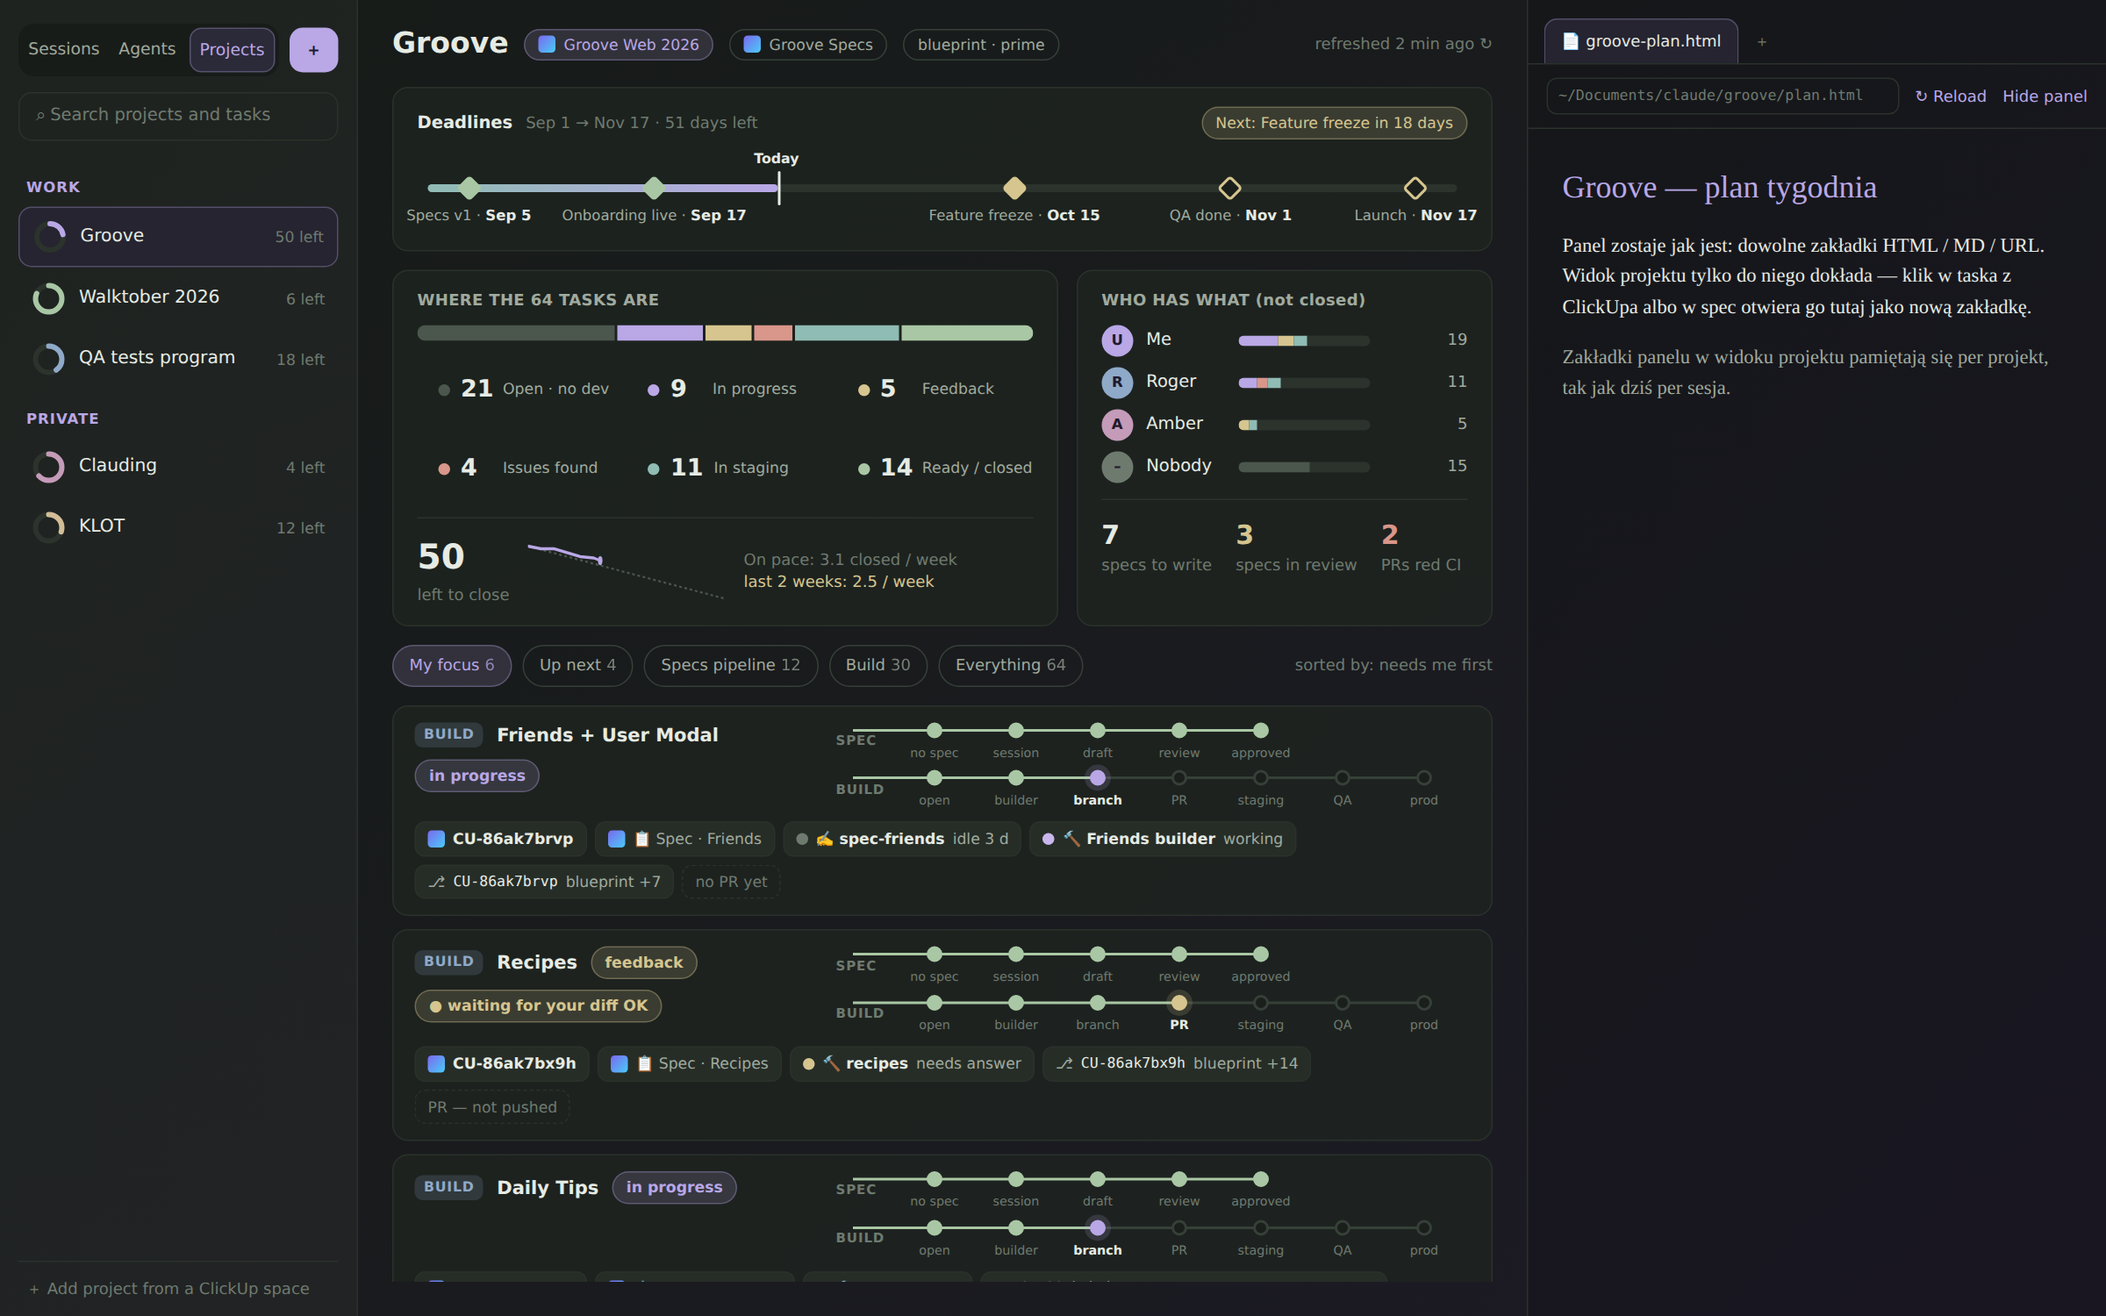
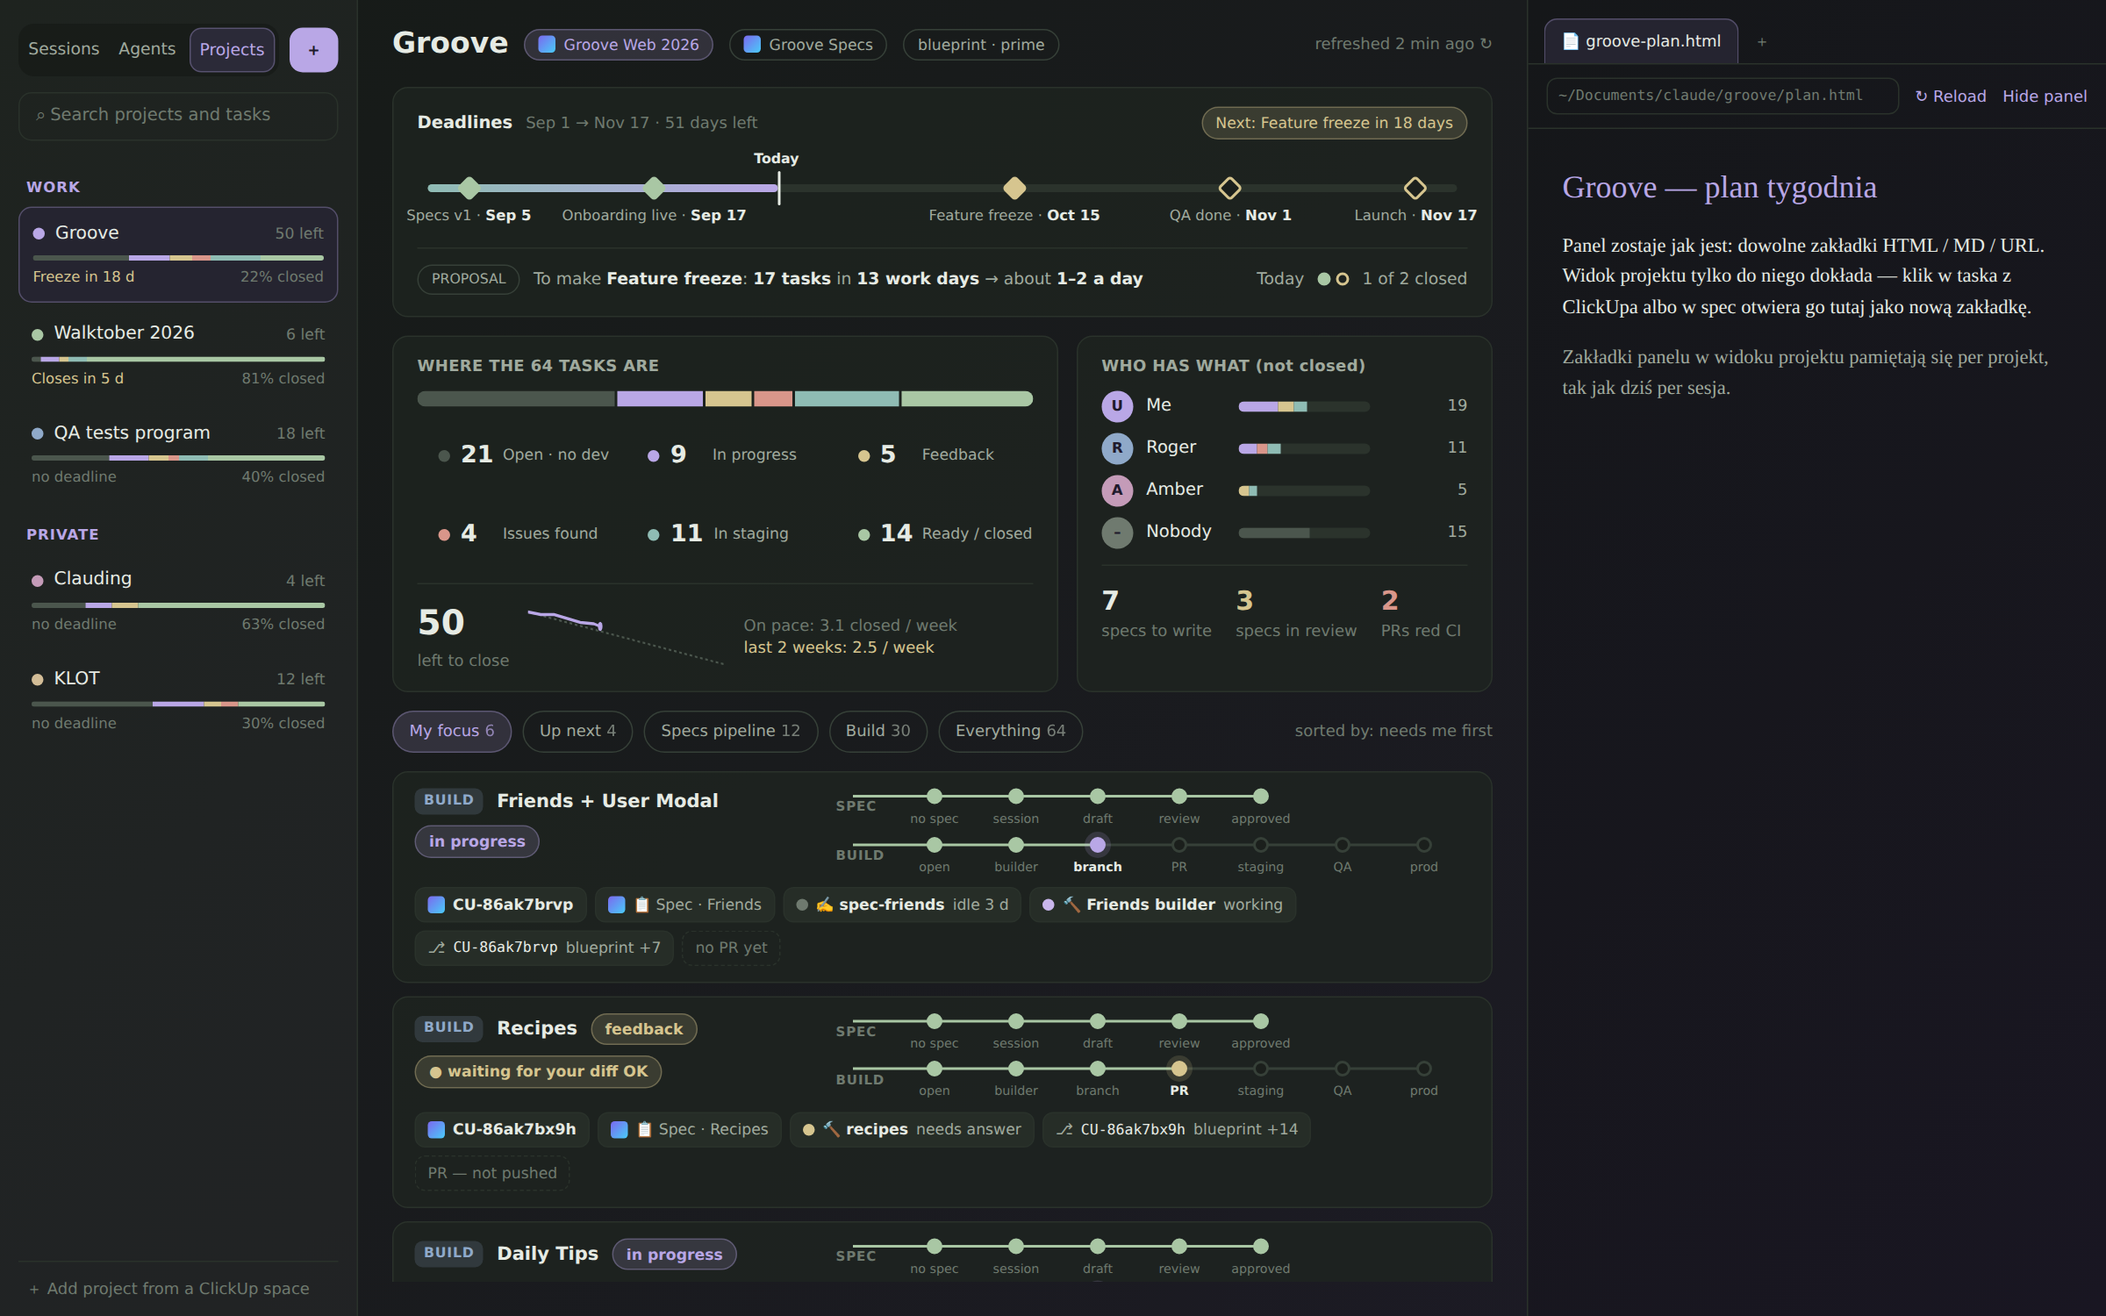
Projects view: all look choices recorded, combined mockup rebuilt with them
Project list B, deadlines A with a proposed daily-pace line, stats A,
filters A, task card A, specs pipeline C, ClickUp read in the panel with a
link out to the browser, details expand in place.

Claude-Session: https://claude.ai/code/session_016X8WzkLtbD8eWEod65GD45

diff --git a/docs/proposals/projects-view/mockups.html b/docs/proposals/projects-view/mockups.html
@@ -34,6 +34,7 @@
           <div class="milestone" style="left:78%"><div class="diamond"></div><div class="label">QA done · <b>Nov 1</b></div></div>
           <div class="milestone" style="left:96%"><div class="diamond"></div><div class="label">Launch · <b>Nov 17</b></div></div>
         </div>
+        <div class="pace"><span class="pill ghost" style="font-size:10.5px">PROPOSAL</span><span>To make <b>Feature freeze</b>: <b>17 tasks</b> in <b>13 work days</b> → about <b>1–2 a day</b></span><span class="spacer"></span><span>Today</span><span class="today-dots"><span class="done"></span><span></span></span><span>1 of 2 closed</span></div>
       </div>
 
       <div class="stats">
@@ -96,7 +97,7 @@
   </div>
   <div class="col-right" data-panel="empty"></div>
 </div>
-<div class="caption"><b>1 · Przegląd projektu.</b> Trzecia zakładka „Projects” po lewej; środek zamiast terminala pokazuje projekt. Góra: deadline'y na osi z „Today” i pasek, który się przesuwa; pod nim statusy z ClickUpa, kto ma co, i burn-down „ile zostało do zamknięcia”. Niżej — tylko Twoje bieżące rzeczy („My focus”), reszta za filtrami.</div>
+<div class="caption"><b>1 · Przegląd — z Twoimi wyborami.</b> Lista projektów B (pasek statusów + najbliższy deadline), oś deadline'ów A, statystyki A, filtry A, karty A. Nowe, do decyzji: linijka pod osią — ile tasków dziennie trzeba zamykać do najbliższego deadline'u i ile dziś już poszło.</div>
 
 <!-- ============ SCREEN 2: item open + ClickUp task in panel ============ -->
 <div class="screen" id="screen-item">
@@ -124,7 +125,7 @@
   </div>
   <div class="col-right" data-panel="clickup"></div>
 </div>
-<div class="caption"><b>2 · Rozwinięty task.</b> Klik w wiersz rozwija szczegóły: obie sesje (speki i builder) z ich stanem, gałąź w obu repo, PR z CI, gdzie jest względem <code>docker-staging</code>. Klik w ClickUp / spec otwiera taska po prawej jako zakładkę panelu; klik w sesję przełącza na nią terminal.</div>
+<div class="caption"><b>2 · Rozwinięty task.</b> Klik w wiersz rozwija szczegóły: obie sesje (speki i builder) z ich stanem, gałąź w obu repo, PR z CI, gdzie jest względem <code>docker-staging</code>. Klik w ClickUp / spec otwiera taska po prawej — Clauding sam czyta opis, pola i komentarze; „Open in ClickUp ↗” otwiera prawdziwego ClickUpa w przeglądarce. Klik w sesję przełącza na nią terminal.</div>
 
 <!-- ============ SCREEN 3: specs pipeline ============ -->
 <div class="screen" id="screen-specs">
@@ -136,23 +137,25 @@
         <span class="subtle">›</span>
         <span style="font-size:15px;color:var(--text-dim)">Specs pipeline</span>
         <span class="spacer"></span>
-        <span class="subtle">Groove Specs list · 12 not yet in Groove Web</span>
+        <span class="subtle">Groove Specs list · 28 not approved yet</span>
       </div>
     </div>
     <div class="mid-body">
       <div class="filters">
         <span class="chip">My focus<span class="count">6</span></span>
         <span class="chip">Up next<span class="count">4</span></span>
-        <span class="chip is-active">Specs pipeline<span class="count">12</span></span>
+        <span class="chip is-active">Specs pipeline<span class="count">28</span></span>
         <span class="chip">Build<span class="count">30</span></span>
         <span class="chip">Everything<span class="count">64</span></span>
       </div>
-      <div class="kanban" data-kanban></div>
+      <div class="funnel" data-funnel></div>
+      <div class="stage-head" data-stage-head></div>
+      <div style="display:flex;flex-direction:column;gap:6px" data-stage-list></div>
     </div>
   </div>
   <div class="col-right" data-panel="spec"></div>
 </div>
-<div class="caption"><b>3 · Pipeline speców.</b> Druga lista z ClickUpa jako tablica: bez speca → sesja Spec Writera → szkic lokalny → review / approval → zatwierdzony. Zatwierdzony spec (złota ramka) to moment przejścia — task wchodzi do listy buildowej jako Open, bez developera, i tam go widać w zakładce Build.</div>
+<div class="caption"><b>3 · Pipeline speców — wariant C.</b> Liczniki etapów zawsze na górze, pod nimi lista jednego etapu. Działa przy 10–15 specach na etap, gdzie tablica A by się rozjechała. Klik w licznik przełącza etap.</div>
 
 <!-- ============ SCREEN 4: project setup ============ -->
 <div class="screen" id="screen-setup">
@@ -190,19 +193,28 @@
 <div class="caption"><b>4 · Ustawienia projektu.</b> Raz na projekt: dwie listy ClickUpa (build + speki), repo, kim jesteś w ClickUpie, deadline'y (z daty taska w ClickUpie albo wpisane ręcznie) i co wpada do „My focus”.</div>
 
 <script>
+const projectList = [
+  ["Groove", "#b9a7e6", 50, [21, 9, 5, 4, 11, 14], "Freeze in 18 d", 22, "Work"],
+  ["Walktober 2026", "#a9c7a4", 6, [1, 2, 1, 0, 2, 26], "Closes in 5 d", 81, "Work"],
+  ["QA tests program", "#8fa9c9", 18, [8, 4, 2, 1, 3, 12], "no deadline", 40, "Work"],
+  ["Clauding", "#c49bb8", 4, [2, 1, 1, 0, 0, 7], "no deadline", 63, "Private"],
+  ["KLOT", "#d3bd97", 12, [7, 3, 1, 1, 0, 5], "no deadline", 30, "Private"],
+];
+const listBucketColors = ["#4b564d", "var(--accent)", "var(--gold)", "var(--coral)", "var(--teal)", "var(--sage)"];
+let projectRows = "";
+let lastGroup = "";
+projectList.forEach(([name, color, left, buckets, next, closed, group], index) => {
+  if (group !== lastGroup) { lastGroup = group; projectRows += `<div class="group-title">${group}</div>`; }
+  const nextColor = next.startsWith("no") ? "var(--text-faint)" : "var(--gold)";
+  projectRows += `<div class="project-line ${index === 0 ? "is-selected" : ""}"><div class="top"><span class="dot" style="background:${color}"></span><span class="name">${name}</span><span class="meta">${left} left</span></div><div class="thin-bar">${buckets.map((count, bucketIndex) => count ? `<div style="flex:${count};background:${listBucketColors[bucketIndex]}"></div>` : "").join("")}</div><div class="under"><span style="color:${nextColor}">${next}</span><span>${closed}% closed</span></div></div>`;
+});
 const leftColumn = `
   <div class="tabs-row">
     <div class="tabs"><span class="tab">Sessions</span><span class="tab">Agents</span><span class="tab is-active">Projects</span></div>
     <span class="button-new">＋</span>
   </div>
   <div class="search">⌕ Search projects and tasks</div>
-  <div class="group-title">Work</div>
-  <div class="project-row is-selected">${ring(0.22, "#b9a7e6")}<span class="name">Groove</span><span class="meta">50 left</span></div>
-  <div class="project-row">${ring(0.81, "#a9c7a4")}<span class="name">Walktober 2026</span><span class="meta">6 left</span></div>
-  <div class="project-row">${ring(0.4, "#8fa9c9")}<span class="name">QA tests program</span><span class="meta">18 left</span></div>
-  <div class="group-title">Private</div>
-  <div class="project-row">${ring(0.63, "#c49bb8")}<span class="name">Clauding</span><span class="meta">4 left</span></div>
-  <div class="project-row">${ring(0.3, "#d3bd97")}<span class="name">KLOT</span><span class="meta">12 left</span></div>
+  ${projectRows}
   <div class="left-footer">＋ Add project from a ClickUp space</div>
 `;
 function ring(fraction, color) {
@@ -314,30 +326,26 @@ document.querySelector("[data-items]").innerHTML = items.slice(0, 4).map((item) 
   `<div class="more-row">＋ 2 more in My focus · <span style="color:var(--accent)">44 open tasks not started — hidden until pinned to Up next</span></div>`;
 document.querySelector("[data-items-detail]").innerHTML = itemHtml(items[0], true) + items.slice(1).map((item) => itemHtml(item, false)).join("");
 
-const lanes = [
-  ["No spec yet", 4, [["Song links", ""], ["Encore modal copy", ""], ["Friends invites", ""], ["Badges", ""]]],
-  ["Spec session", 3, [["Forgot Password + ELEvate", "✍ working"], ["Login page", "✍ idle 2 d"], ["Welcome page", "✍ needs answer"]]],
-  ["Draft (local)", 2, [["Countdown", "4 drift flags"], ["Theme modes", "draft"]]],
-  ["Review / approval", 3, [["Progress Status", "your approval"], ["Dashboard Timeline Editor", "Design"], ["Eligibility", "Product"]]],
-  ["Approved → Build", 4, [["Timeline", "→ Open in Web"], ["Encore", "→ Open in Web"], ["Toast alerts", "→ Open, no dev"], ["Daily Tips", "→ building"]]],
+const stages = [["No spec yet", 11], ["Spec session", 6], ["Draft", 4], ["Review", 7], ["Approved", 14]];
+document.querySelector("[data-funnel]").innerHTML = stages.map(([name, count], index) => `<div class="${index === 3 ? "is-active" : ""}"><b>${count}</b>${name}</div>`).join("");
+document.querySelector("[data-stage-head]").textContent = "Review · 7 waiting";
+const reviewRows = [
+  ["Progress Status — technical", "your approval", "gold", "✍ spec-progress-status", "idle"],
+  ["Dashboard Timeline Editor", "Design", "", "✍ spec-timeline", "idle 4 d"],
+  ["Eligibility", "Product", "", "✍ spec-eligibility", "idle 6 d"],
+  ["Forgot Password + ELEvate", "your approval", "gold", "✍ spec-forgot", "idle 1 d"],
+  ["Login page", "Design", "", "✍ spec-login", "idle 2 d"],
+  ["Welcome page", "your approval", "gold", "✍ spec-welcome", "needs answer"],
+  ["Toast alerts", "Product", "", "✍ spec-toasts", "idle 9 d"],
 ];
-document.querySelector("[data-kanban]").innerHTML = lanes.map(([title, count, tickets], laneIndex) => `
-  <div class="lane"><h4><span>${title}</span><span>${count}</span></h4>
-  ${tickets.map(([name, note]) => {
-    let noteClass = "";
-    if (note.includes("working")) noteClass = "lav";
-    if (note.includes("needs") || note.includes("your")) noteClass = "gold";
-    if (note.includes("flags")) noteClass = "coral";
-    if (note.startsWith("→")) noteClass = "teal";
-    return `<div class="ticket ${laneIndex === 4 && note.includes("no dev") ? "handoff" : ""}"><div class="t">${name}</div><div class="m"><span class="link" style="padding:2px 6px"><span class="cu-icon"></span>task</span>${note ? `<span class="pill ${noteClass}">${note}</span>` : `<span class="link missing" style="padding:2px 6px">＋ Spec Writer</span>`}</div></div>`;
-  }).join("")}</div>`).join("");
+document.querySelector("[data-stage-list]").innerHTML = reviewRows.map(([name, waiting, color, session, state]) => `<div class="list-row"><span class="cu-icon"></span><span class="t">${name}</span><span class="link"><span class="dot" style="background:${state === "needs answer" ? "var(--gold)" : "var(--text-faint)"}"></span><b>${session}</b><span>${state}</span></span><span class="spacer"></span><span class="pill ${color}">${waiting}</span></div>`).join("");
 
 const panels = {
   empty: `<div class="panel-tabs"><span class="panel-tab is-active">📄 groove-plan.html</span><span class="subtle" style="padding:0 8px 8px">＋</span></div>
     <div class="panel-bar"><span class="addr">~/Documents/claude/groove/plan.html</span>↻ Reload<span>Hide panel</span></div>
     <div class="panel-body cu"><h2>Groove — plan tygodnia</h2><p>Panel zostaje jak jest: dowolne zakładki HTML / MD / URL. Widok projektu tylko do niego dokłada — klik w taska z ClickUpa albo w spec otwiera go tutaj jako nową zakładkę.</p><p style="color:var(--text-dim)">Zakładki panelu w widoku projektu pamiętają się per projekt, tak jak dziś per sesja.</p></div>`,
   clickup: `<div class="panel-tabs"><span class="panel-tab"><span class="cu-icon"></span>Spec · Friends</span><span class="panel-tab is-active"><span class="cu-icon"></span>CU-86ak7brvp</span><span class="subtle" style="padding:0 8px 8px">＋</span></div>
-    <div class="panel-bar"><span class="addr">app.clickup.com/t/86ak7brvp</span>↻ Reload<span>Open in ClickUp</span></div>
+    <div class="panel-bar"><span class="addr">app.clickup.com/t/86ak7brvp</span>↻ Reload<span class="button-accent">Open in ClickUp ↗</span></div>
     <div class="panel-body cu">
       <span class="pill lav">in progress</span> <span class="pill">Groove Web 2026</span>
       <h2>Friends + User Modal</h2>
@@ -354,7 +362,7 @@ const panels = {
       <div class="comment"><b>Ula</b> · Sep 23 — agreed, builder is on it.</div>
     </div>`,
   spec: `<div class="panel-tabs"><span class="panel-tab is-active"><span class="cu-icon"></span>Spec · Progress Status</span><span class="subtle" style="padding:0 8px 8px">＋</span></div>
-    <div class="panel-bar"><span class="addr">app.clickup.com/1281535/v/dc/173fz-212393/173fz-301613</span>↻ Reload<span>Open in ClickUp</span></div>
+    <div class="panel-bar"><span class="addr">app.clickup.com/1281535/v/dc/173fz-212393/173fz-301613</span>↻ Reload<span class="button-accent">Open in ClickUp ↗</span></div>
     <div class="panel-body cu"><span class="pill gold">spec review</span>
       <h2>Progress Status — Technical Implementation</h2>
       <p>Thresholds default on the Timeline scene and are copied to the promotion's settings on creation, editable until start. The tier is computed, never stored.</p>

diff --git a/docs/proposals/projects-view/mock.css b/docs/proposals/projects-view/mock.css
@@ -206,3 +206,32 @@ body { margin: 0; background: #0e100f; color: var(--text); font-family: var(--fo
 
 .caption { width: 1600px; font-family: var(--font-ui); color: #cfd6cd; font-size: 15px; padding: 0 4px 12px; }
 .caption b { color: #fff; }
+
+/* chosen: project list B */
+.project-line { padding: 10px 10px; border-radius: 10px; margin-bottom: 4px; }
+.project-line.is-selected { background: var(--surface-lavender); border: 1px solid var(--border-lavender); }
+.project-line .top { display: flex; align-items: center; gap: 8px; }
+.project-line .top .name { flex: 1; font-size: 13.5px; }
+.project-line .top .meta { color: var(--text-faint); font-size: 11.5px; }
+.thin-bar { height: 4px; border-radius: 3px; background: var(--surface-hover); margin: 7px 0 5px; overflow: hidden; display: flex; }
+.thin-bar div { height: 100%; }
+.project-line .under { display: flex; justify-content: space-between; font-size: 11px; color: var(--text-faint); }
+
+/* chosen: daily pace under the timeline */
+.pace { display: flex; align-items: center; gap: 10px; margin-top: 14px; padding-top: 12px; border-top: 1px solid var(--border-soft); font-size: 12.5px; color: var(--text-dim); }
+.pace b { color: var(--text); }
+.pace .today-dots { display: inline-flex; gap: 4px; }
+.pace .today-dots span { width: 10px; height: 10px; border-radius: 50%; border: 2px solid var(--gold); }
+.pace .today-dots span.done { background: var(--sage); border-color: var(--sage); }
+
+/* chosen: specs pipeline C */
+.funnel { display: flex; gap: 4px; }
+.funnel div { flex: 1; text-align: center; padding: 10px 4px; font-size: 11.5px; color: var(--text-dim); background: var(--surface-raised); }
+.funnel div b { display: block; font-size: 22px; color: var(--text); }
+.funnel div:first-child { border-radius: 10px 0 0 10px; }
+.funnel div:last-child { border-radius: 0 10px 10px 0; }
+.funnel div.is-active { background: var(--accent-soft); color: var(--accent); box-shadow: inset 0 -3px 0 var(--accent); }
+.stage-head { font-size: 11px; letter-spacing: 0.05em; color: var(--text-faint); text-transform: uppercase; font-weight: 700; margin-top: 4px; }
+.list-row { display: flex; gap: 10px; align-items: center; padding: 9px 12px; border: 1px solid var(--border-soft); border-radius: 10px; font-size: 13px; background: rgba(31,37,32,0.6); }
+.list-row .t { font-weight: 600; min-width: 230px; }
+.button-accent { background: var(--accent); color: var(--on-accent); padding: 3px 10px; border-radius: 7px; font-weight: 600; }

diff --git a/docs/proposals/projects-view/plan.html b/docs/proposals/projects-view/plan.html
@@ -76,9 +76,14 @@ td { padding: 8px 10px; border-bottom: 1px solid #252c26; vertical-align: top; }
 <div class="card accent">
 <ul>
   <li><b>1.1 Lista projektów → B</b>: pasek statusów + najbliższy deadline, <b>bez „czeka na Ciebie”</b> (wszystkie projekty na liście są jej).</li>
+  <li><b>1.4 Deadline'y → A</b>: jedna oś z „Today”. Do decyzji: linijka pod osią „ile tasków dziennie do najbliższego deadline'u + ile dziś zamknięte”.</li>
+  <li><b>1.5–1.7 Statystyki → A</b>. Do obejrzenia po pierwszej wersji: czy liczniki speców i czerwonego CI stoją we właściwym miejscu (pod „kto ma co” wyglądają na odklejone).</li>
   <li><b>1.8 Filtry → A</b>: chipy nad listą z licznikami.</li>
-  <li><b>2.1 ClickUp w panelu → A</b>: własny widok z API (opis, pola, komentarze), z linkiem „Open in browser” do prawdziwego ClickUpa. Nie webview, bo prawdziwy ClickUp w panelu byłby niezalogowany.</li>
-  <li>Jeszcze do wyboru: 1.4 deadline'y, 1.5–1.7 statystyki, 1.9 karta taska, 1.10 pipeline speców, 2.3 szczegóły taska.</li>
+  <li><b>1.9 Karta taska → A</b>: dwa pipeline'y z kropkami + chipy z linkami.</li>
+  <li><b>1.10 Pipeline speców → C</b>: liczniki etapów na górze, lista jednego etapu pod spodem (bo bywa 10–15 speców na etap).</li>
+  <li><b>2.1 ClickUp w panelu → C</b>: Clauding sam czyta opis, pola i komentarze; „Open in ClickUp ↗” otwiera prawdziwy ClickUp w przeglądarce (nie w panelu — tam byłby niezalogowany).</li>
+  <li><b>2.3 Szczegóły → A</b>: rozwijanie w miejscu, spójne z kartą A.</li>
+  <li><b>1.11 Stany</b>: zaakceptowane.</li>
 </ul>
 </div>
 
